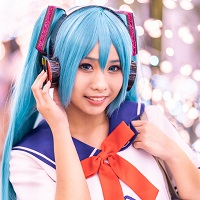
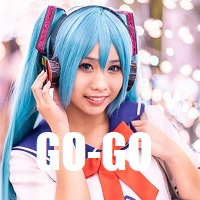
added the player names to the images to save space. finished inlayout for game. ready to start jquery. added directions as comments to break up the process.

Changed region(s): [[0.18, 0.63, 0.78, 0.87]]

diff --git a/index.html b/index.html
@@ -8,72 +8,64 @@
 
     <link rel="stylesheet" href="https://maxcdn.bootstrapcdn.com/bootstrap/4.0.0/css/bootstrap.min.css">
     <link rel="stylesheet" type="text/css" src="assets/css/style.css">
+    <link href="https://fonts.googleapis.com/css?family=Permanent+Marker&display=swap" rel="stylesheet">
+
 
 </head>
 
 <body style="background:url('assets/images/tokyo-subway.jpg')">
     <div class="row">
         <div class="col-lg-12 bg-light text-right">
-            <h1 style="font-family: Impact, Haettenschweiler, 'Arial Narrow Bold', sans-serif">TOKYO UNDERGROUND</h1>
+            <h1 style="font-family:Impact, Haettenschweiler, 'Arial Narrow Bold', sans-serif">TOKYO UNDERGROUND</h1>
         </div>
     </div>
+
     <br></br>
-    <br></br>
-    <br></br>
+
+    <!-- Your Player Choice-->
     <div class="row">
         <div class="col-lg-12">
+            <h3 class="text-white" style="font-family:Impact, Haettenschweiler, 'Arial Narrow Bold', sans-serif">YOUR PLAYER</h3>
             <div class="row">
                 <div class="col-md-8">
                     <div class="row">
-                        <div class="col-sm-2">
-                            <div class="card bg-light text-dark">
-                                <div class="card-header pt-1 pb-0 mx-auto">
-                                    <h3 style="font-family:Impact, Haettenschweiler, 'Arial Narrow Bold', sans-serif">GO-GO</h3>
-                                </div>
-                                <div class="card-body p-0">
+                        <div id="go-go" class="col-sm-2">
+                            <div class="card bg-transparent">
+                                <div class="card-body text-white" style="padding:0">
                                     <img id="player-1" src="assets/images/go-go-crazy.jpg" class="img-fluid">
                                 </div>
-                                <div class="card-footer pt-1 pb-0">
-                                    <h5 style="font-family:Impact, Haettenschweiler, 'Arial Narrow Bold', sans-serif">HP:</h5>
+                                <div class="card-footer text-white" style="padding:0">
+                                    <p style="font-family:Impact, Haettenschweiler, 'Arial Narrow Bold', sans-serif">HP:</p>
                                 </div>
                             </div>
                         </div>
-                        <div class="col-sm-2">
-                            <div class="card bg-light text-dark">
-                                <div class="card-header pt-1 pb-0 mx-auto">
-                                    <h3 style="font-family:Impact, Haettenschweiler, 'Arial Narrow Bold', sans-serif">PURGE</h3>
-                                </div>
-                                <div class="card-body p-0">
+                        <div id="purge" class="col-sm-2">
+                            <div class="card bg-transparent">
+                                <div class="card-body" style="padding:0">
                                     <img id="player-2" src="assets/images/purge-dude.jpg" class="img-fluid">
                                 </div>
-                                <div class="card-footer pt-1 pb-0">
-                                    <h5 style="font-family:Impact, Haettenschweiler, 'Arial Narrow Bold', sans-serif">HP:</h5>
+                                <div class="card-footer text-white" style="padding:0">
+                                    <p style="font-family:Impact, Haettenschweiler, 'Arial Narrow Bold', sans-serif">HP:</p>
                                 </div>
                             </div>
                         </div>
-                        <div class="col-sm-2">
-                            <div class="card bg-light text-dark">
-                                <div class="card-header pt-1 pb-0 mx-auto">
-                                    <h3 style="font-family:Impact, Haettenschweiler, 'Arial Narrow Bold', sans-serif">BLUE ICE</h3>
-                                </div>
-                                <div class="card-body p-0">
+                        <div id="blue-ice" class="col-sm-2">
+                            <div class="card bg-transparent">
+                                <div class="card-body" style="padding:0">
                                     <img id="player-3" src="assets/images/blue-ice.jpg" class="img-fluid">
                                 </div>
-                                <div class="card-footer pt-1 pb-0">
-                                    <h5 style="font-family:Impact, Haettenschweiler, 'Arial Narrow Bold', sans-serif">HP:</h5>
+                                <div class="card-footer text-white" style="padding:0">
+                                    <p style="font-family:Impact, Haettenschweiler, 'Arial Narrow Bold', sans-serif">HP:</p>
                                 </div>
                             </div>
                         </div>
-                        <div class="col-sm-2">
-                            <div class="card bg-light text-dark">
-                                <div class="card-header pt-1 pb-0 mx-auto">
-                                    <h3 style="font-family:Impact, Haettenschweiler, 'Arial Narrow Bold', sans-serif">PANTERA</h3>
-                                </div>
-                                <div class="card-body p-0">
+                        <div id="pantera" class="col-sm-2">
+                            <div class="card bg-transparent">
+                                <div class="card-body" style="padding:0">
                                     <img id="player-4" src="assets/images/robo-panther.jpg" class="img-fluid">
                                 </div>
-                                <div class="card-footer pt-1 pb-0">
-                                    <h5 style="font-family:Impact, Haettenschweiler, 'Arial Narrow Bold', sans-serif">HP:</h5>
+                                <div class="card-footer text-white" style="padding:0">
+                                    <p style="font-family:Impact, Haettenschweiler, 'Arial Narrow Bold', sans-serif">HP:</p>
                                 </div>
                             </div>
                         </div>
@@ -83,10 +75,45 @@
         </div>
     </div>
 
+    <br></br>
+
+    <!-- Container for fight space -->
+    <div class="row">
+        <div class="col-lg-12">
+            <div class="row">
+                <div class="col-md-6">
+                    <h3 class="text-white" style="font-family:Impact, Haettenschweiler, 'Arial Narrow Bold', sans-serif">GAME ON ; )</h3>
+                    <button type="button" class="btn btn-warning btn-lg">ATTACK!</button>
+                </div>
+            </div>
+        </div>
+    </div>
+
+    <br></br>
 
 
+    <!-- Enemies Section -->
+    <div class="row">
+        <div class="col-lg-12">
+            <div class="row">
+                <div class="col-md-6">
+                    <h3 class="text-white" style="font-family:Impact, Haettenschweiler, 'Arial Narrow Bold', sans-serif">YOUR ENEMIES</h3>
+                </div>
+            </div>
+        </div>
+    </div>
+
+    <br></br>
 
     <script src="assets/javascript/game.js"></script>
+</body>
+
+</html>
+
+
+
+
+<script src="assets/javascript/game.js"></script>
 </body>
 
 </html>

diff --git a/assets/javascript/game.js b/assets/javascript/game.js
@@ -1,0 +1,73 @@
+// When the game starts, 
+$(document).ready(function() {
+
+        }
+
+        //the player will choose a character by clicking on the 
+        // fighter's picture. The player will fight as that character for the rest of 
+        // the game.
+
+
+        // The player must then defeat all of the remaining fighters. 
+        // Enemies should be moved to a different area of the screen.
+
+
+        // The player chooses an opponent by clicking on an enemy's picture.
+
+
+        // Once the player selects an opponent, that enemy is moved to a defender area.
+
+
+        // The player will now be able to click the attack button.
+        // Whenever the player clicks attack, their character damages the defender. 
+        // The defender will lose HP (health points). 
+        // These points are displayed at the bottom of the defender's picture.
+
+
+        // The opponent character will instantly counter the attack. 
+        // When that happens, the player's character will lose some of their HP. 
+        // These points are shown at the bottom of the player character's picture.
+
+
+        // The player will keep hitting the attack button in an effort to defeat their opponent.
+
+
+        // When the defender's HP is reduced to zero or below, remove the enemy from the defender area. 
+        // The player character can now choose a new opponent.
+
+
+        // The player wins the game by defeating all enemy characters. 
+        // The player loses the game the game if their character's HP falls to zero or below.
+
+
+
+
+
+        //-----------------------------------------------------------------------------------------------------------------------------------
+
+        // Each character in the game has 3 attributes: Health Points, Attack Power and Counter Attack Power.
+
+
+        // Each time the player attacks, their character's Attack Power increases by its base Attack Power.
+        // For example, if the base Attack Power is 6, each attack will increase the Attack Power by 6 (12, 18, 24, 30 and so on).
+
+
+
+        // The enemy character only has Counter Attack Power.
+        // Unlike the player's Attack Points, Counter Attack Power never changes.
+
+
+
+        // The Health Points, Attack Power and Counter Attack Power of each character must differ.
+
+
+        // No characters in the game can heal or recover Health Points.
+
+        // A winning player must pick their characters wisely by first fighting an enemy with low Counter Attack Power. 
+        // This will allow them to grind Attack Power and to take on enemies before they lose all of their Health Points. 
+        // Healing options would mess with this dynamic.
+
+
+
+        // Your players should be able to win and lose the game no matter what character they choose. 
+        // The challenge should come from picking the right enemies, not choosing the strongest player.
